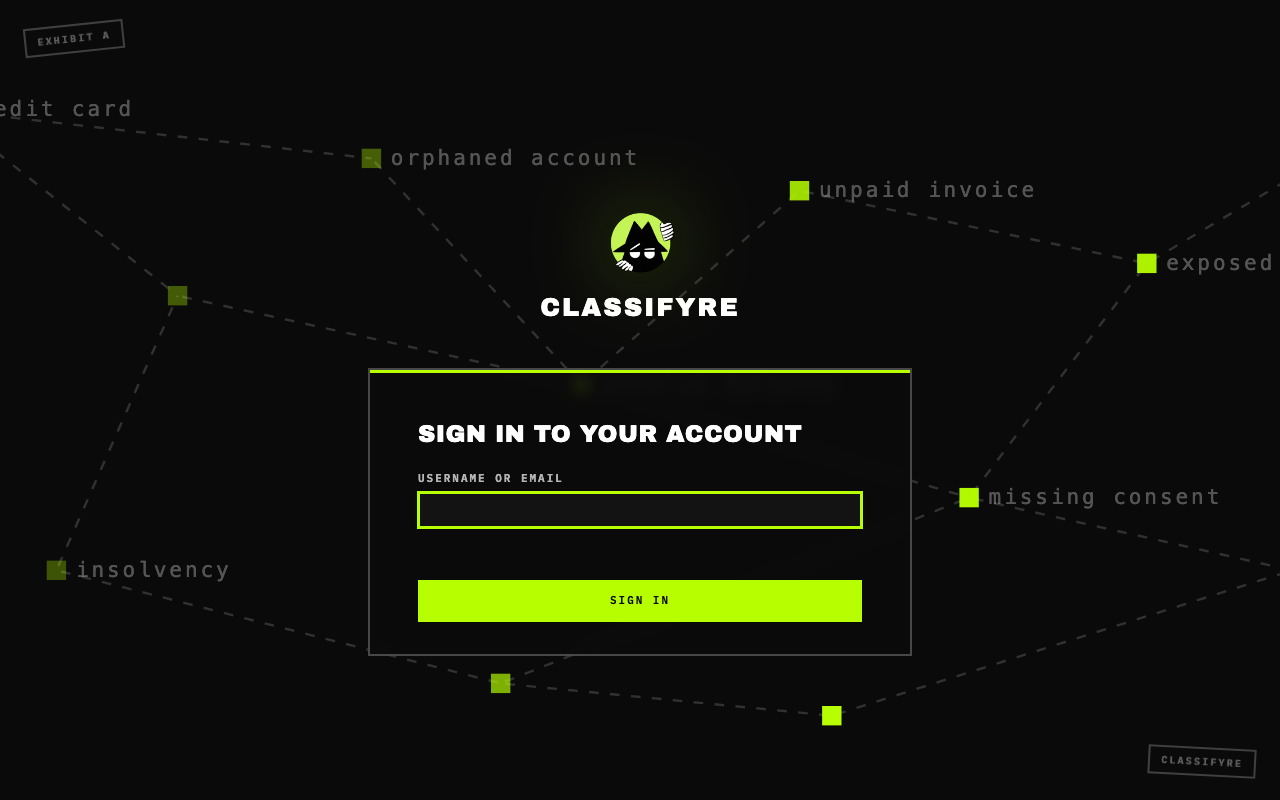
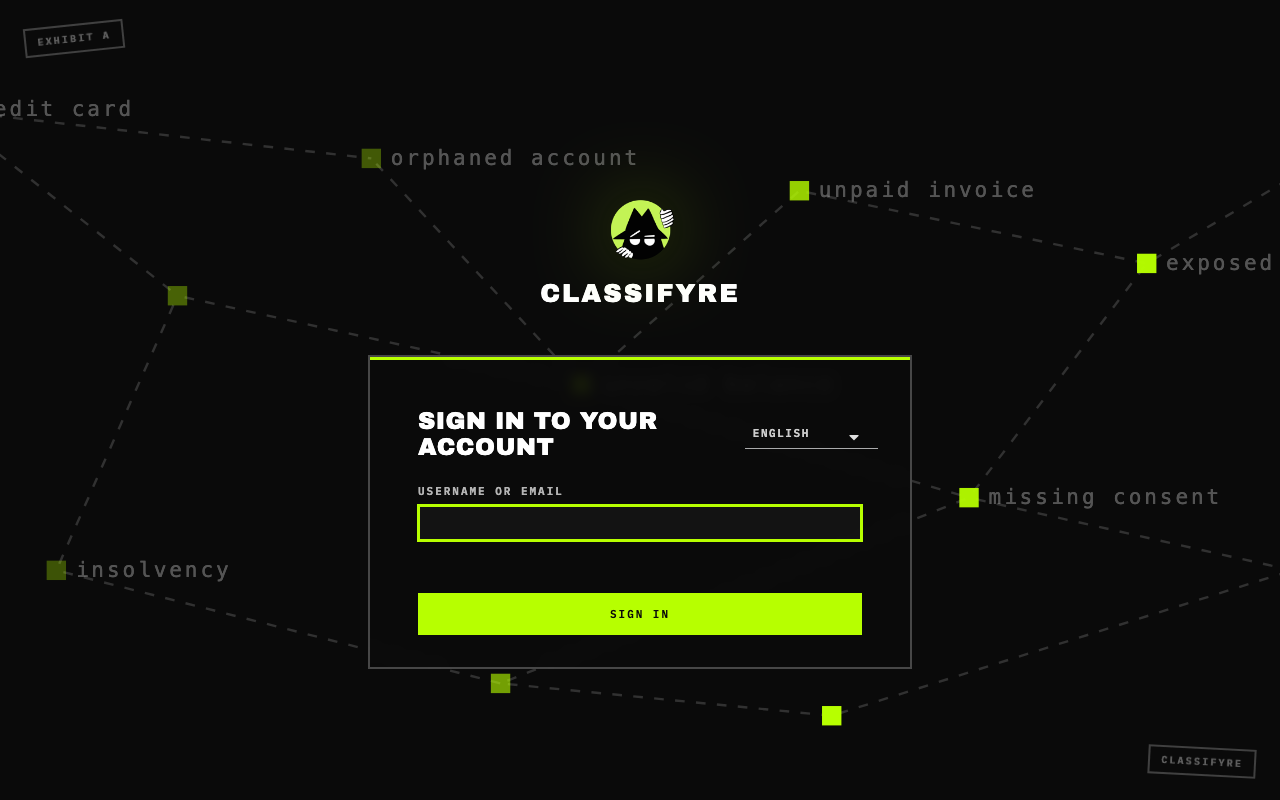
feat(iam): sign-in pages in English and German, opening in the app's language
The realm setup job turns on Classifyre's languages (en, de) so the sign-in
pages follow the browser and offer a switch; /auth/login passes ui_locales
from the page the person came from, else their language choice in the app.

diff --git a/apps/web/app/auth/login/route.ts b/apps/web/app/auth/login/route.ts
@@ -7,6 +7,8 @@ import {
   safeReturnTo,
   seal,
 } from "@/lib/iam/session";
+import { signInLocale } from "@/lib/iam/sign-in-locale";
+import { LANGUAGE_COOKIE } from "@/lib/language-cookie";
 
 /**
  * Starts sign-in: authorization code with PKCE. `tenant` asks for one
@@ -22,8 +24,13 @@ export function GET(request: NextRequest) {
   const tenant = request.nextUrl.searchParams.get("tenant");
   const scope = `openid organization${tenant && /^[a-z0-9-]+$/i.test(tenant) ? `:${tenant}` : ""}`;
 
+  // The sign-in pages open in the app's language (the identity server has
+  // English and German, like the app, and offers a switch).
+  const locale = signInLocale(returnTo, request.cookies.get(LANGUAGE_COOKIE)?.value);
+
   const authorize = new URL(`${config.issuerUrl}/protocol/openid-connect/auth`);
   authorize.search = new URLSearchParams({
+    ...(locale ? { ui_locales: locale } : {}),
     client_id: config.clientId,
     response_type: "code",
     scope,

diff --git a/apps/web/lib/iam/sign-in-locale.ts b/apps/web/lib/iam/sign-in-locale.ts
@@ -1,0 +1,21 @@
+import { isLocale, type Locale } from "@/lib/locale-detection";
+
+const COOKIE_LANGUAGES: Record<string, Locale> = {
+  ENGLISH: "en",
+  GERMAN: "de",
+};
+
+/**
+ * The language the sign-in pages should open in: the one of the page the
+ * person came from (its `/de/…` prefix), else the one they chose in the app
+ * (the `classifyre-language` cookie). Null leaves it to the identity server,
+ * which follows the browser's languages.
+ */
+export function signInLocale(
+  returnTo: string,
+  languageCookie?: string,
+): Locale | null {
+  const first = returnTo.split(/[/?#]/).filter(Boolean)[0];
+  if (isLocale(first)) return first;
+  return (languageCookie && COOKIE_LANGUAGES[languageCookie]) || null;
+}

diff --git a/apps/web/lib/iam/sign-in-locale.spec.ts b/apps/web/lib/iam/sign-in-locale.spec.ts
@@ -1,0 +1,20 @@
+import { signInLocale } from "./sign-in-locale";
+
+describe("sign-in language", () => {
+  it("follows the page the person came from", () => {
+    expect(signInLocale("/de/acme/findings")).toBe("de");
+    expect(signInLocale("/de")).toBe("de");
+    expect(signInLocale("/en/acme", "GERMAN")).toBe("en");
+  });
+
+  it("else the language chosen in the app", () => {
+    expect(signInLocale("/acme/findings", "GERMAN")).toBe("de");
+    expect(signInLocale("/", "ENGLISH")).toBe("en");
+  });
+
+  it("else leaves it to the identity server", () => {
+    expect(signInLocale("/")).toBeNull();
+    expect(signInLocale("/", "AUTOMATIC")).toBeNull();
+    expect(signInLocale("/designs")).toBeNull();
+  });
+});

diff --git a/helm/classifyre/files/iam/theme/login/resources/css/login.css b/helm/classifyre/files/iam/theme/login/resources/css/login.css
@@ -182,3 +182,24 @@ html.login-pf,
     transform: rotate(3deg);
   }
 }
+
+/* The language switch in the card's corner: case-file microtype, like the labels. */
+.pf-v5-c-login__main-header-utilities .pf-v5-c-form-control {
+  --pf-v5-c-form-control--BackgroundColor: transparent;
+  --pf-v5-c-form-control--before--BorderColor: rgb(255 255 255 / 0.25);
+  --pf-v5-c-form-control--after--BorderColor: transparent;
+}
+
+#login-select-toggle {
+  font-family: var(--cl-font-mono);
+  font-size: 11px;
+  font-weight: 600;
+  text-transform: uppercase;
+  letter-spacing: 0.14em;
+  color: rgb(255 255 255 / 0.8);
+}
+
+#login-select-toggle option {
+  background: var(--cl-black);
+  color: #ffffff;
+}

diff --git a/apps/web/lib/language-cookie.ts b/apps/web/lib/language-cookie.ts
@@ -1,6 +1,7 @@
 import type { LanguageSetting } from "./locale-detection";
 
-const COOKIE_NAME = "classifyre-language";
+export const LANGUAGE_COOKIE = "classifyre-language";
+const COOKIE_NAME = LANGUAGE_COOKIE;
 const MAX_AGE_SECONDS = 365 * 24 * 60 * 60;
 
 const VALID_VALUES = new Set<string>(["AUTOMATIC", "ENGLISH", "GERMAN"]);

diff --git a/docs/prd/IAM-access-management.md b/docs/prd/IAM-access-management.md
@@ -843,6 +843,8 @@ Asked for: the identity server in Classifyre's style (sign-in page on the landin
 
 **Docs:** `apps/docs/app/access/` is now Overview (two places, building blocks, access always goes to groups, private and public tenants), Getting started (first password, first sign-in, console, groups, people, grants), Organizing people (a whole company: departments, subgroups, workspace managers, isolate and elevate someone, leavers, pitfalls), Roles and rights (generated from `roles.ts`/`capabilities.ts` by `bun run codegen` into `apps/docs/src/_generated/access-catalog.json`), and Running Sign-in (console, look, what happens when the identity server changes). Screenshots are real, from the dev stack, of an invented company (Brightwater Logistics), taken by `apps/e2e/docs/iam-screenshots.spec.ts` (`playwright.docs.config.ts`); `DOCS_SHOTS=a,b` re-takes some.
 
+**Languages (2026-11-08):** the realm setup job turns on internationalization with Classifyre's languages (`en`, `de`, default `en`), so the sign-in pages follow the browser and offer a switch, and the identity server keeps a signed-in person's pick as their `locale`. `/auth/login` passes `ui_locales` from the `returnTo` path prefix, else the `classifyre-language` cookie (`lib/iam/sign-in-locale.ts`). Not built yet (asked to wait): the web reading the account's `locale` after sign-in and writing the web's switch back to the account, which needs the web client to reach the account API. Visitors, sign-in off and the Docker image keep URL prefix, cookie, browser.
+
 **Review of the whole feature (2026-11-08), and what was done about it:**
 - High: `%2F` and `..` inside a catch-all segment (Next decodes after splitting) let the `/iam` proxy reach the master realm. Segments with `/`, `\`, `.` or `..` are refused (`allowedIamPath`), with tests; confirmed closed live.
 - Operator rights were near realm-admin (clients' secrets, flows, realm settings): narrowed as above.

diff --git a/changelog.d/sign-in-languages.added.md b/changelog.d/sign-in-languages.added.md
@@ -1,0 +1,1 @@
+The sign-in page now speaks English and German, like Classifyre: it opens in the language you were using, or your browser's, and has a language switch. Your choice there is kept on your account for the sign-in pages and emails such as a password reset.
